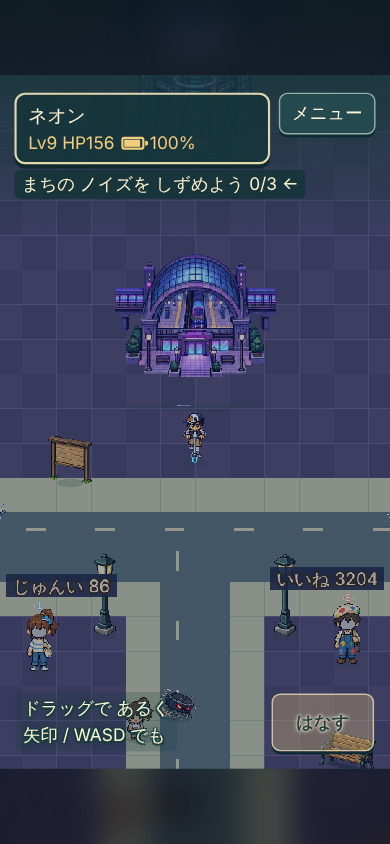
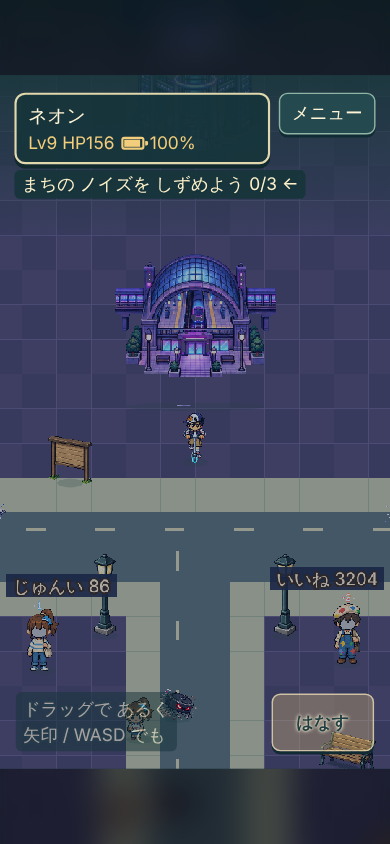
R114: 札の地を濃く保つ確認に合わせ、札全体を半分だけ薄くする形に直した
Claude-Session: https://claude.ai/code/session_01RX9xbaEUEgjGfva8BUGVkT

Changed region(s): [[0.0615, 0.8009, 0.4308, 0.8934]]

diff --git a/v5/index.html b/v5/index.html
@@ -1,7 +1,7 @@
 <!doctype html>
 <html lang="ja"><head><meta charset="utf-8"><meta name="viewport" content="width=device-width, initial-scale=1, viewport-fit=cover"><meta name="theme-color" content="#172d32"><link rel="icon" href="data:,"><title>RYOSEIWORLD — ひかりの なつやすみ</title>
 <style>
-*{box-sizing:border-box}html,body{margin:0;width:100%;height:100%;overflow:hidden;background:#101e24;color:#fff5d6;font-family:'Hiragino Maru Gothic ProN','Hiragino Sans',system-ui,sans-serif;touch-action:none;user-select:none}button,input{font:inherit;font-size:24px}button{cursor:pointer;color:inherit;background:#244a50;border:2px solid #91b5a5;border-radius:12px;min-height:58px;padding:10px 16px;box-shadow:0 4px 0 #112b34}button:hover,button:focus-visible{background:#37636a;outline:3px solid #f5cf78;outline-offset:2px}button:active{transform:translateY(2px);box-shadow:none}button:disabled{opacity:.45;cursor:default}#stage{position:fixed;left:0;top:0;width:540px;height:960px;transform-origin:0 0;overflow:hidden;background:#203f43}canvas{position:absolute;inset:0;width:540px;height:960px;image-rendering:pixelated}.screen{position:absolute;inset:0;display:none}.screen.active{display:block}[hidden]{display:none!important}.panel{background:#16353bee;border:3px solid #e1d8ad;border-radius:15px;box-shadow:0 6px 0 #10292d;padding:22px}.eyebrow{font-size:24px;letter-spacing:2px;color:#f1cd7c}.title-copy{position:absolute;top:110px;width:100%;text-align:center}.title-copy h1{font-size:46px;letter-spacing:1px;line-height:1.15;margin:16px 0;color:#fff2c4;text-shadow:4px 5px #254b50}.title-copy p{font-size:26px;line-height:1.7}.title-copy .genre-tag{font-size:24px;line-height:1.5;margin-top:10px;color:#c6d6c3;padding:0 32px;word-break:keep-all;line-break:strict}#music-hint{position:absolute;right:22px;top:22px;font-size:24px;color:#f1cd7cb3;pointer-events:none}.title-actions{position:absolute;left:70px;right:70px;bottom:115px;display:grid;gap:18px}.title-actions.with-hint{top:640px;bottom:auto;gap:12px}.primary{background:#f1cd7c;color:#213f42;border-color:#fff0c1;font-weight:700}.primary:hover,.primary:focus-visible{background:#ffe1a4;color:#213f42}.primary:focus-visible{outline:4px solid #fff5d6;outline-offset:3px}.caption{font-size:24px;line-height:1.65;word-break:keep-all;line-break:strict;color:#c6d6c3;background:rgba(16,30,36,.74);border-radius:10px;padding:2px 10px;margin:0 -40px}.hud{position:absolute;left:20px;right:20px;top:24px;display:flex;flex-direction:column;align-items:flex-start;gap:8px}.hud-row{display:flex;justify-content:space-between;align-items:flex-start;gap:12px;width:100%}.map-title{font-size:26px;margin:0 0 5px}.status{font-size:24px;color:#f1cd7c;white-space:nowrap}.hud .panel{padding:12px 16px;min-width:0;flex:1}.hud-row>button{flex-shrink:0}.quest{max-width:100%;font-size:24px;line-height:1.35;color:#fff2cb;text-shadow:1px 2px #16353b;pointer-events:none;background:#16353bee;border-radius:8px;padding:4px 10px}.quest:empty{display:none}.bottom-bar{position:absolute;bottom:24px;left:22px;right:22px;display:flex;align-items:flex-end;justify-content:space-between;pointer-events:none}.bottom-bar button{pointer-events:auto;min-height:80px;min-width:142px}#talk-btn{transition:background-color .3s}#talk-btn.idle{background:#f1cd7c4d;border-color:#fff0c1aa;text-shadow:0 0 3px #fff5d6,0 0 6px #fff5d6}#talk-btn.behind{background:#f1cd7c1a;border-color:#fff0c166;color:#fff5d6;text-shadow:-2px -2px #173e3c,2px -2px #173e3c,-2px 2px #173e3c,2px 2px #173e3c,0 0 6px #173e3c}.walk-help.behind{background:#16353b33;color:#fff5d6;text-shadow:-2px -2px #173e3c,2px -2px #173e3c,-2px 2px #173e3c,2px 2px #173e3c,0 0 6px #173e3c}.walk-help.learned{opacity:0}.walk-help{transition:opacity .6s,background-color .6s;white-space:nowrap;font-size:24px;line-height:1.55;color:#fff4d6;text-shadow:2px 2px #173e3c;background:#16353bee;border-radius:8px;padding:4px 10px}.dialogue{position:absolute;left:20px;right:20px;bottom:28px;z-index:10;min-height:238px;padding:20px 24px;text-align:left;width:500px;font-size:27px;line-height:1.65;cursor:pointer}.speaker{display:block;font-size:24px;color:#f1cd7c;margin-bottom:8px}.dialogue-text{white-space:pre-wrap;word-break:keep-all;line-break:strict;overflow-wrap:normal;display:block;min-height:112px}.next{display:block;text-align:right;font-size:24px;color:#95d5c5}#dialogue:focus,#dialogue:focus-visible{outline:none;background:#16353bee}.modal{position:absolute;inset:0;background:#0d273ac7;z-index:8;padding:150px 26px 35px;display:flex;align-items:center}.modal>.panel{width:100%;max-height:760px;overflow:auto;display:flex;flex-direction:column}.modal>.panel>*{flex:none}.modal>.panel>#modal-copy{flex:0 1 auto;min-height:0;overflow:auto;overscroll-behavior:contain;scrollbar-width:thin;scrollbar-color:#e1d8ad #16353b}.modal>.panel>#modal-copy.more{border-bottom:3px dashed #e1d8ad99}.modal h2{font-size:30px;margin:0 0 20px}.modal p{font-size:25px;line-height:1.6;white-space:pre-wrap}.menu-list{display:grid;gap:12px}.menu-list button{text-align:left}.row{display:flex;gap:12px}.row>*{flex:1}.name-card{position:absolute;top:310px;left:40px;right:40px;text-align:center}.name-card p{font-size:27px;line-height:1.8}.name-card input{background:#0f2d35;color:#fff7dc;border:2px solid #f1cd7c;padding:16px;width:100%;text-align:center;font-size:32px;border-radius:8px;margin-bottom:24px}.battle-top{position:absolute;top:28px;left:24px;right:24px;font-size:25px}.enemy-meter{height:8px;background:#102930;margin-top:10px;border-radius:4px;overflow:hidden}.enemy-meter i{display:block;height:100%;background:#f1cd7c}.hp-card{position:absolute;top:488px;left:24px;right:24px;padding:14px 20px;font-size:26px;display:flex;justify-content:space-between;align-items:center}.hp-number{font:700 36px ui-monospace,monospace;color:#f1cd7c;letter-spacing:3px}.battle-log{position:absolute;top:582px;left:24px;right:24px;height:150px;white-space:pre-wrap;word-break:keep-all;line-break:strict;overflow-wrap:anywhere;font-size:25px;line-height:1.5;padding:15px 20px}.commands{position:absolute;left:24px;right:24px;bottom:26px;display:grid;grid-template-columns:1fr 1fr;gap:10px}.commands button{min-height:62px}.commands button:last-child{grid-column:1/-1}.burst{position:absolute;left:24px;right:24px;top:405px;text-align:center;font-size:26px;background:#173a45e8;border-radius:10px;padding:12px;color:#ffe09d}.ending-card{position:absolute;top:220px;left:36px;right:36px;text-align:center}.ending-card h2{font-size:38px;line-height:1.65}.ending-card p{font-size:25px;line-height:1.8}.ending-card button{margin-top:28px}.ending-bg{width:100%;height:220px;object-fit:cover;border-radius:12px;margin:14px 0 6px;border:3px solid #e1d8ad;display:block}.epilogue-card{position:absolute;top:260px;left:40px;right:40px;text-align:center}.epilogue-card p{font-size:27px;line-height:1.8;white-space:pre-line;min-height:150px}.epilogue-card input{background:#0f2d35;color:#fff7dc;border:2px solid #f1cd7c;padding:16px;width:100%;text-align:center;font-size:30px;border-radius:8px;margin-bottom:24px}.epilogue-card button{margin-top:8px}#toast{position:absolute;top:200px;left:30px;right:30px;text-align:center;font-size:24px;padding:14px;z-index:15;pointer-events:none}#pause{position:absolute;inset:0;background:#122d39e8;z-index:30;display:flex;flex-direction:column;align-items:center;justify-content:center;font-size:30px;gap:24px}#loading{position:absolute;inset:0;background:#172d32;z-index:40;display:grid;place-items:center;font-size:26px}#stage.paused *{animation-play-state:paused!important}.batt{display:inline-block;position:relative;width:32px;height:18px;border:3px solid currentColor;border-radius:4px;margin:0 7px 0 10px;vertical-align:-1px}.batt::after{content:"";position:absolute;right:-8px;top:3px;width:4px;height:6px;background:currentColor;border-radius:0 2px 2px 0}.batt i{position:absolute;left:1px;top:1px;bottom:1px;width:22px;background:currentColor}#screen-battle.casting .battle-top,#screen-battle.casting .hp-card,#screen-battle.casting .battle-log,#screen-battle.casting .commands{opacity:.35;transition:opacity .2s}#backdrop{position:fixed;left:0;top:0;width:100vw;height:100vh;object-fit:cover;filter:blur(14px) brightness(.5) saturate(1.1);transform:scale(1.1);image-rendering:auto}#stage.compact .dialogue{left:8px;right:8px;width:524px;font-size:32px;padding:16px 18px}#stage.compact .speaker{font-size:30px}#stage.compact .next{font-size:26px}#stage.compact .map-title,#stage.compact .status{font-size:31px}#stage.compact .quest{font-size:28px}#stage.compact .hud .panel{padding:10px 12px}#stage.compact .batt{transform:scale(1.25);margin:0 12px 0 14px}#stage.compact .battle-log{font-size:28px;line-height:1.3;padding:6px 16px;height:166px}#stage.compact .commands{bottom:10px}#stage.compact #toast{font-size:31px}#stage.compact #menu-btn{font-size:24px;padding:8px 10px}
+*{box-sizing:border-box}html,body{margin:0;width:100%;height:100%;overflow:hidden;background:#101e24;color:#fff5d6;font-family:'Hiragino Maru Gothic ProN','Hiragino Sans',system-ui,sans-serif;touch-action:none;user-select:none}button,input{font:inherit;font-size:24px}button{cursor:pointer;color:inherit;background:#244a50;border:2px solid #91b5a5;border-radius:12px;min-height:58px;padding:10px 16px;box-shadow:0 4px 0 #112b34}button:hover,button:focus-visible{background:#37636a;outline:3px solid #f5cf78;outline-offset:2px}button:active{transform:translateY(2px);box-shadow:none}button:disabled{opacity:.45;cursor:default}#stage{position:fixed;left:0;top:0;width:540px;height:960px;transform-origin:0 0;overflow:hidden;background:#203f43}canvas{position:absolute;inset:0;width:540px;height:960px;image-rendering:pixelated}.screen{position:absolute;inset:0;display:none}.screen.active{display:block}[hidden]{display:none!important}.panel{background:#16353bee;border:3px solid #e1d8ad;border-radius:15px;box-shadow:0 6px 0 #10292d;padding:22px}.eyebrow{font-size:24px;letter-spacing:2px;color:#f1cd7c}.title-copy{position:absolute;top:110px;width:100%;text-align:center}.title-copy h1{font-size:46px;letter-spacing:1px;line-height:1.15;margin:16px 0;color:#fff2c4;text-shadow:4px 5px #254b50}.title-copy p{font-size:26px;line-height:1.7}.title-copy .genre-tag{font-size:24px;line-height:1.5;margin-top:10px;color:#c6d6c3;padding:0 32px;word-break:keep-all;line-break:strict}#music-hint{position:absolute;right:22px;top:22px;font-size:24px;color:#f1cd7cb3;pointer-events:none}.title-actions{position:absolute;left:70px;right:70px;bottom:115px;display:grid;gap:18px}.title-actions.with-hint{top:640px;bottom:auto;gap:12px}.primary{background:#f1cd7c;color:#213f42;border-color:#fff0c1;font-weight:700}.primary:hover,.primary:focus-visible{background:#ffe1a4;color:#213f42}.primary:focus-visible{outline:4px solid #fff5d6;outline-offset:3px}.caption{font-size:24px;line-height:1.65;word-break:keep-all;line-break:strict;color:#c6d6c3;background:rgba(16,30,36,.74);border-radius:10px;padding:2px 10px;margin:0 -40px}.hud{position:absolute;left:20px;right:20px;top:24px;display:flex;flex-direction:column;align-items:flex-start;gap:8px}.hud-row{display:flex;justify-content:space-between;align-items:flex-start;gap:12px;width:100%}.map-title{font-size:26px;margin:0 0 5px}.status{font-size:24px;color:#f1cd7c;white-space:nowrap}.hud .panel{padding:12px 16px;min-width:0;flex:1}.hud-row>button{flex-shrink:0}.quest{max-width:100%;font-size:24px;line-height:1.35;color:#fff2cb;text-shadow:1px 2px #16353b;pointer-events:none;background:#16353bee;border-radius:8px;padding:4px 10px}.quest:empty{display:none}.bottom-bar{position:absolute;bottom:24px;left:22px;right:22px;display:flex;align-items:flex-end;justify-content:space-between;pointer-events:none}.bottom-bar button{pointer-events:auto;min-height:80px;min-width:142px}#talk-btn{transition:background-color .3s}#talk-btn.idle{background:#f1cd7c4d;border-color:#fff0c1aa;text-shadow:0 0 3px #fff5d6,0 0 6px #fff5d6}#talk-btn.behind{background:#f1cd7c1a;border-color:#fff0c166;color:#fff5d6;text-shadow:-2px -2px #173e3c,2px -2px #173e3c,-2px 2px #173e3c,2px 2px #173e3c,0 0 6px #173e3c}.walk-help.behind{opacity:.55;color:#fff5d6;text-shadow:-2px -2px #173e3c,2px -2px #173e3c,-2px 2px #173e3c,2px 2px #173e3c,0 0 6px #173e3c}.walk-help.learned{opacity:0}.walk-help{transition:opacity .6s;white-space:nowrap;font-size:24px;line-height:1.55;color:#fff4d6;text-shadow:2px 2px #173e3c;background:#16353bee;border-radius:8px;padding:4px 10px}.dialogue{position:absolute;left:20px;right:20px;bottom:28px;z-index:10;min-height:238px;padding:20px 24px;text-align:left;width:500px;font-size:27px;line-height:1.65;cursor:pointer}.speaker{display:block;font-size:24px;color:#f1cd7c;margin-bottom:8px}.dialogue-text{white-space:pre-wrap;word-break:keep-all;line-break:strict;overflow-wrap:normal;display:block;min-height:112px}.next{display:block;text-align:right;font-size:24px;color:#95d5c5}#dialogue:focus,#dialogue:focus-visible{outline:none;background:#16353bee}.modal{position:absolute;inset:0;background:#0d273ac7;z-index:8;padding:150px 26px 35px;display:flex;align-items:center}.modal>.panel{width:100%;max-height:760px;overflow:auto;display:flex;flex-direction:column}.modal>.panel>*{flex:none}.modal>.panel>#modal-copy{flex:0 1 auto;min-height:0;overflow:auto;overscroll-behavior:contain;scrollbar-width:thin;scrollbar-color:#e1d8ad #16353b}.modal>.panel>#modal-copy.more{border-bottom:3px dashed #e1d8ad99}.modal h2{font-size:30px;margin:0 0 20px}.modal p{font-size:25px;line-height:1.6;white-space:pre-wrap}.menu-list{display:grid;gap:12px}.menu-list button{text-align:left}.row{display:flex;gap:12px}.row>*{flex:1}.name-card{position:absolute;top:310px;left:40px;right:40px;text-align:center}.name-card p{font-size:27px;line-height:1.8}.name-card input{background:#0f2d35;color:#fff7dc;border:2px solid #f1cd7c;padding:16px;width:100%;text-align:center;font-size:32px;border-radius:8px;margin-bottom:24px}.battle-top{position:absolute;top:28px;left:24px;right:24px;font-size:25px}.enemy-meter{height:8px;background:#102930;margin-top:10px;border-radius:4px;overflow:hidden}.enemy-meter i{display:block;height:100%;background:#f1cd7c}.hp-card{position:absolute;top:488px;left:24px;right:24px;padding:14px 20px;font-size:26px;display:flex;justify-content:space-between;align-items:center}.hp-number{font:700 36px ui-monospace,monospace;color:#f1cd7c;letter-spacing:3px}.battle-log{position:absolute;top:582px;left:24px;right:24px;height:150px;white-space:pre-wrap;word-break:keep-all;line-break:strict;overflow-wrap:anywhere;font-size:25px;line-height:1.5;padding:15px 20px}.commands{position:absolute;left:24px;right:24px;bottom:26px;display:grid;grid-template-columns:1fr 1fr;gap:10px}.commands button{min-height:62px}.commands button:last-child{grid-column:1/-1}.burst{position:absolute;left:24px;right:24px;top:405px;text-align:center;font-size:26px;background:#173a45e8;border-radius:10px;padding:12px;color:#ffe09d}.ending-card{position:absolute;top:220px;left:36px;right:36px;text-align:center}.ending-card h2{font-size:38px;line-height:1.65}.ending-card p{font-size:25px;line-height:1.8}.ending-card button{margin-top:28px}.ending-bg{width:100%;height:220px;object-fit:cover;border-radius:12px;margin:14px 0 6px;border:3px solid #e1d8ad;display:block}.epilogue-card{position:absolute;top:260px;left:40px;right:40px;text-align:center}.epilogue-card p{font-size:27px;line-height:1.8;white-space:pre-line;min-height:150px}.epilogue-card input{background:#0f2d35;color:#fff7dc;border:2px solid #f1cd7c;padding:16px;width:100%;text-align:center;font-size:30px;border-radius:8px;margin-bottom:24px}.epilogue-card button{margin-top:8px}#toast{position:absolute;top:200px;left:30px;right:30px;text-align:center;font-size:24px;padding:14px;z-index:15;pointer-events:none}#pause{position:absolute;inset:0;background:#122d39e8;z-index:30;display:flex;flex-direction:column;align-items:center;justify-content:center;font-size:30px;gap:24px}#loading{position:absolute;inset:0;background:#172d32;z-index:40;display:grid;place-items:center;font-size:26px}#stage.paused *{animation-play-state:paused!important}.batt{display:inline-block;position:relative;width:32px;height:18px;border:3px solid currentColor;border-radius:4px;margin:0 7px 0 10px;vertical-align:-1px}.batt::after{content:"";position:absolute;right:-8px;top:3px;width:4px;height:6px;background:currentColor;border-radius:0 2px 2px 0}.batt i{position:absolute;left:1px;top:1px;bottom:1px;width:22px;background:currentColor}#screen-battle.casting .battle-top,#screen-battle.casting .hp-card,#screen-battle.casting .battle-log,#screen-battle.casting .commands{opacity:.35;transition:opacity .2s}#backdrop{position:fixed;left:0;top:0;width:100vw;height:100vh;object-fit:cover;filter:blur(14px) brightness(.5) saturate(1.1);transform:scale(1.1);image-rendering:auto}#stage.compact .dialogue{left:8px;right:8px;width:524px;font-size:32px;padding:16px 18px}#stage.compact .speaker{font-size:30px}#stage.compact .next{font-size:26px}#stage.compact .map-title,#stage.compact .status{font-size:31px}#stage.compact .quest{font-size:28px}#stage.compact .hud .panel{padding:10px 12px}#stage.compact .batt{transform:scale(1.25);margin:0 12px 0 14px}#stage.compact .battle-log{font-size:28px;line-height:1.3;padding:6px 16px;height:166px}#stage.compact .commands{bottom:10px}#stage.compact #toast{font-size:31px}#stage.compact #menu-btn{font-size:24px;padding:8px 10px}
 .word-card{position:absolute;left:18px;right:18px;z-index:16;font-size:24px;line-height:1.3;text-align:left;padding:10px 14px;word-break:keep-all;overflow-wrap:normal;line-break:strict;box-shadow:none}.word-card span{display:block}.word-card .word-head{display:flex;justify-content:space-between;align-items:baseline;gap:12px}.word-card .word-head span{display:inline}.word-card .word-who{flex:none;color:#bfd3cf;border:2px solid #bfd3cf66;border-radius:6px;padding:0 8px;line-height:1.2}.word-card .word-title{color:#f1cd7c}.modal .panel{touch-action:pan-y;overscroll-behavior:contain}.modal p,.menu-list button{word-break:keep-all;overflow-wrap:normal;white-space:pre-wrap}.word-kind{font-size:26px;margin:16px 0 0}.word-detail{font-size:24px;line-height:1.5;word-break:keep-all}.word-detail h3{font-size:24px;margin:16px 0 4px}.word-detail p{font-size:24px;margin:0}.word-detail code{font-size:24px;white-space:pre-wrap;overflow-wrap:anywhere}
 #proto-words{position:fixed;left:0;top:0;width:540px;height:960px;transform-origin:0 0;pointer-events:none;z-index:12001}#proto-words .word-card{pointer-events:auto}
 </style></head><body><canvas id="backdrop" width="54" height="96" aria-hidden="true"></canvas><main id="stage"><canvas id="game" width="540" height="960" aria-label="ヒダマリちょうのゲーム画面"></canvas>

diff --git a/autodev/last_run.md b/autodev/last_run.md
@@ -1,5 +1,5 @@
-- 「ドラッグで あるく」の札は、後ろに人がいる時に字ごと薄くなり読めなかった
-- 地だけを薄くし、字は明るい色と濃いふちのまま残した
-- テストと前と後のスクショ（docs/shots/R114）で確かめた
+- 「ドラッグで あるく」の札は、後ろに人がいる時に薄くなりすぎて字が読めなかった
+- 薄くする度合いを3割から5割5分に変え、字に濃いふちを付けた
+- 地だけ透かす案は札の地を濃く保つ確認と合わず、やめた
 次: ヒカク戦の始めの「ビート」ボタンが薄い金色で目立たない所を見る
-時刻: 2026-10-18 06:31
+時刻: 2026-10-18 06:43
